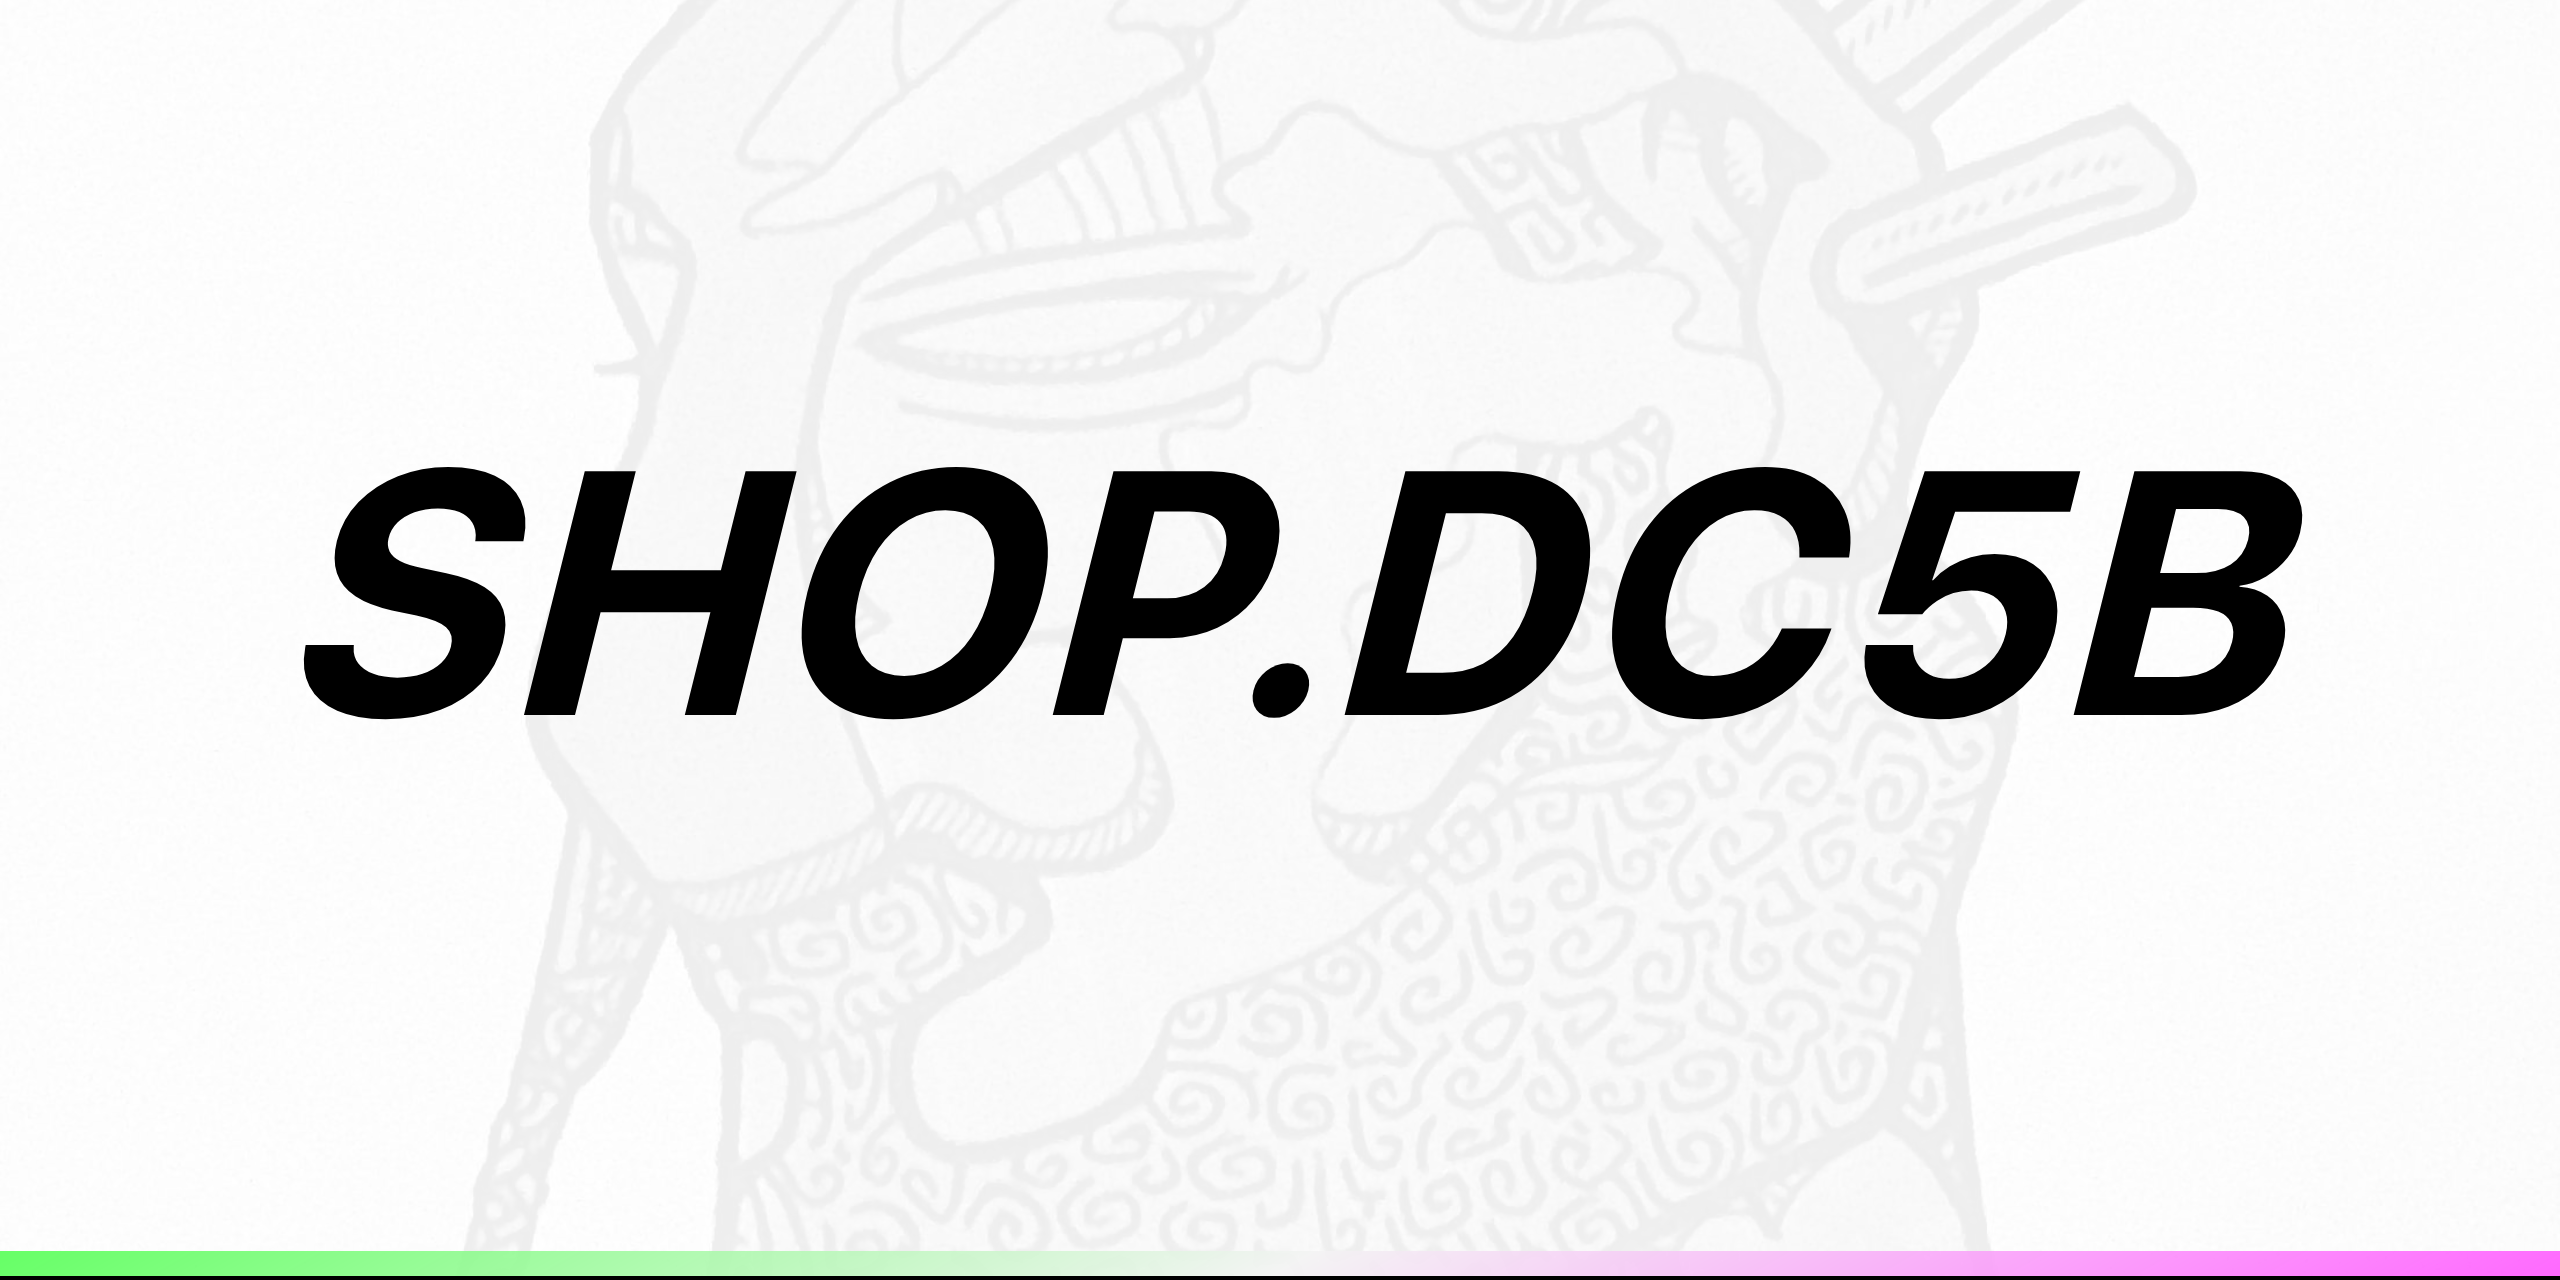
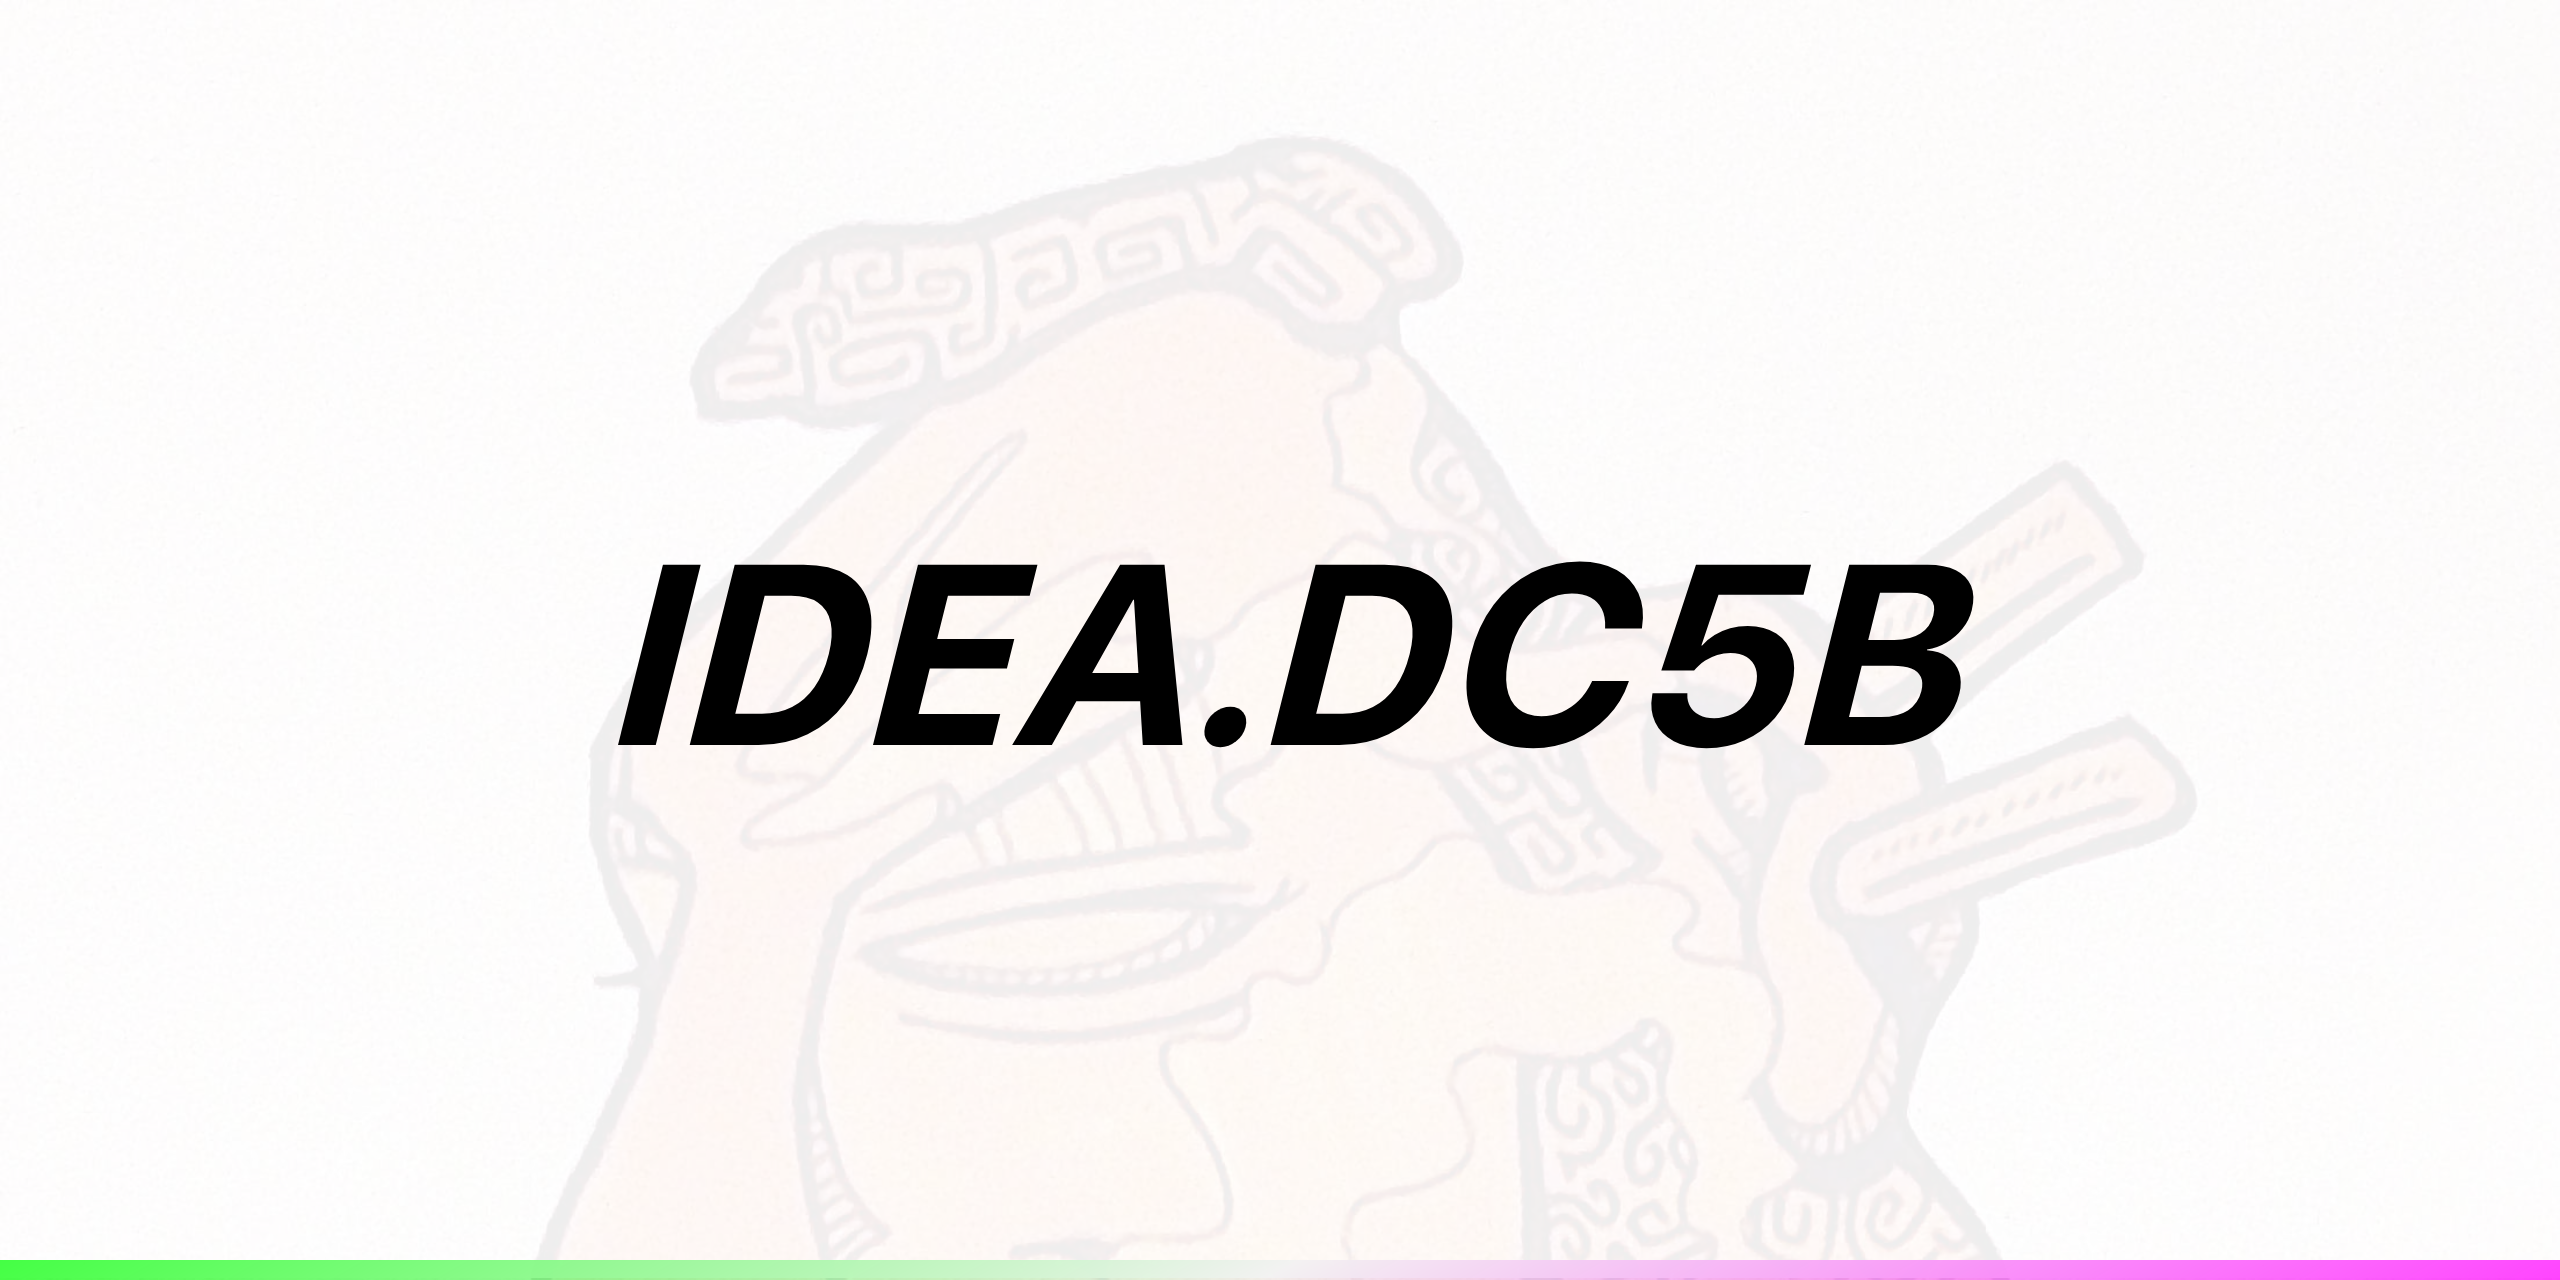
Update branding image

Changed region(s): [[0.0938, 0.3438, 0.9062, 0.5938], [0.0, 0.9688, 0.4688, 1.0], [0.5625, 0.9688, 1.0, 1.0]]

diff --git a/website/src/website/poster.tsx b/website/src/website/poster.tsx
@@ -1,0 +1,15 @@
+import Image from "next/image";
+
+const Poster = () => (
+  <div>
+    <Image
+      src={"/idea-images/bearded-strange-face-colouring.jpg"}
+      alt={""}
+      width="4000px"
+      height="4000px"
+      layout="responsive"
+    />
+  </div>
+);
+
+export { Poster };

diff --git a/website/pages/poster.tsx b/website/pages/poster.tsx
@@ -1,0 +1,3 @@
+import { Poster } from "src/website/poster";
+
+export default Poster;
